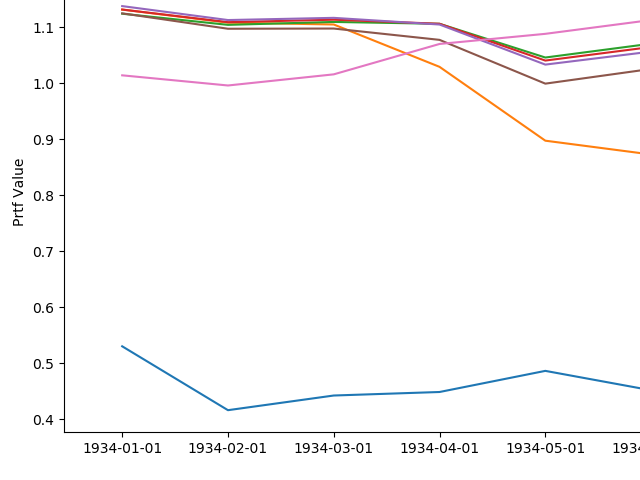
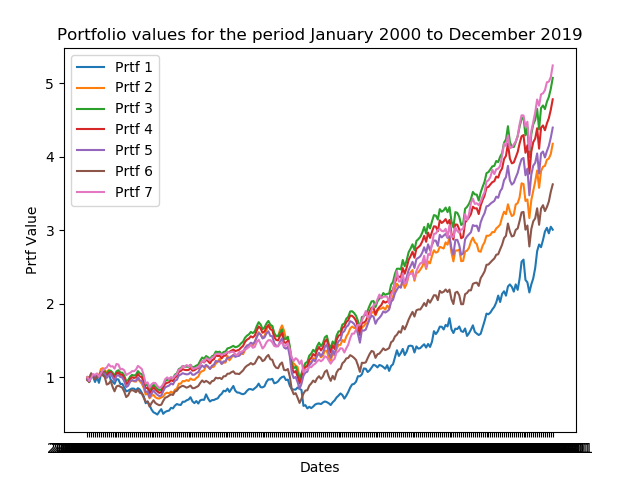
consolidating results in DataFrame for Perf Evaluation

diff --git a/TP2_main.py b/TP2_main.py
@@ -33,9 +33,9 @@ start_date_3        = "2000-01-01"
 end_date            = "2020-01-01"
 
 #To test shorter period
-start_date_2        = "1933-01-01"
-start_date_3        = "1934-01-01"
-end_date            = "1935-01-01"
+#start_date_2        = "1933-01-01"
+#start_date_3        = "1934-01-01"
+#end_date            = "1935-01-01"
 
 
 idx_start_1         = list(date_vec.strftime("%Y-%m-%d")).index(start_date_1)
@@ -299,10 +299,12 @@ NAV_PB_4_2_return_OS3   = np.cumprod(1 + np.array(PB_4_2_return[idx_start_3-idx_
 #   NAV_P1_return,     Keeping this series in cmt as doesn't fit properly
 NAV = np.transpose([NAV_P1_return, NAV_P2_return, NAV_P3_return, NAV_P4_return, NAV_P5_return, NAV_P6_return, NAV_P7_return])
 fig1 = plt.figure()
-axes1 = fig1.add_axes([0.1, 0.1, 2, 1])  # left, bottom, width, height (range 0 to 1)
-x = date_vec_btst
-y = NAV
-axes1.plot(x, y)
+axes1 = fig1.add_axes([0.1, 0.1, 0.8, 0.8])  # left, bottom, width, height (range 0 to 1)
+NAV = pd.DataFrame(NAV, index=date_vec_btst)
+#x = date_vec_btst
+#y = NAV
+#axes1.plot(x, y)
+axes1.plot(NAV)
 axes1.legend(["Prtf 1", "Prtf 2", "Prtf 3", "Prtf 4", "Prtf 5", "Prtf 6", "Prtf 7"])
 axes1.set_xlabel('Dates')
 axes1.set_ylabel('Prtf Value')
@@ -314,7 +316,7 @@ fig1.savefig('7_Portfolios_OS1.png')
 #NAV_P1_return_OS2,
 NAV_OS2 = np.transpose([NAV_P1_return_OS2, NAV_P2_return_OS2, NAV_P3_return_OS2, NAV_P4_return_OS2, NAV_P5_return_OS2, NAV_P6_return_OS2, NAV_P7_return_OS2])
 fig2 = plt.figure()
-axes2 = fig2.add_axes([0.1, 0.1, 2, 1])  # left, bottom, width, height (range 0 to 1)
+axes2 = fig2.add_axes([0.1, 0.1, 0.8, 0.8])  # left, bottom, width, height (range 0 to 1)
 x = date_vec_prd2
 y = NAV_OS2
 axes2.plot(x, y)
@@ -328,7 +330,7 @@ fig2.savefig('7_Portfolios_OS2.png')
 #NAV_P1_return_OS3,
 NAV_OS3 = np.transpose([NAV_P1_return_OS3, NAV_P2_return_OS3, NAV_P3_return_OS3, NAV_P4_return_OS3, NAV_P5_return_OS3, NAV_P6_return_OS3, NAV_P7_return_OS3])
 fig3 = plt.figure()
-axes3 = fig3.add_axes([0.1, 0.1, 2, 1])  # left, bottom, width, height (range 0 to 1)
+axes3 = fig3.add_axes([0.1, 0.1, 0.8, 0.8])  # left, bottom, width, height (range 0 to 1)
 x = date_vec_prd3
 y = NAV_OS3
 axes3.plot(x, y)
@@ -344,7 +346,7 @@ fig3.savefig('7_Portfolios_OS3.png')
 #NAV_PB_3_1_return,     in legend   "Prtf B3: TE<1% without short-sale const",
 NAV_PartB_MC = np.transpose([NAV_P6_return, NAV_PB_3_1_return, NAV_PB_4_1_return])
 figvw1 = plt.figure()
-axesvw1 = figvw1.add_axes([0.1, 0.1, 2, 1])  # left, bottom, width, height (range 0 to 1)
+axesvw1 = figvw1.add_axes([0.1, 0.1, 0.8, 0.8])  # left, bottom, width, height (range 0 to 1)
 x = date_vec_btst
 y = NAV_PartB_MC
 axesvw1.plot(x, y)
@@ -359,7 +361,7 @@ figvw1.savefig('VW_MV_OS1.png')
 # NAV_PB_3_1_return_OS2, "Prtf B3: TE<1% without short-sale const",
 NAV_PartB_MC_OS2 = np.transpose([NAV_P6_return_OS2, NAV_PB_3_1_return_OS2, NAV_PB_4_1_return_OS2])
 figvw2 = plt.figure()
-axesvw2 = figvw2.add_axes([0.1, 0.1, 2, 1])  # left, bottom, width, height (range 0 to 1)
+axesvw2 = figvw2.add_axes([0.1, 0.1, 0.8, 0.8])  # left, bottom, width, height (range 0 to 1)
 x = date_vec_prd2
 y = NAV_PartB_MC_OS2
 axesvw2.plot(x, y)
@@ -375,7 +377,7 @@ figvw2.savefig('VW_MV_OS2.png')
 # NAV_PB_3_1_return_OS3,   "Prtf B3: TE<1% without short-sale const",
 NAV_PartB_MC_OS3 = np.transpose([NAV_P6_return_OS3, NAV_PB_3_1_return_OS3, NAV_PB_4_1_return_OS3])
 figvw3 = plt.figure()
-axesvw3 = figvw3.add_axes([0.1, 0.1, 2, 1])  # left, bottom, width, height (range 0 to 1)
+axesvw3 = figvw3.add_axes([0.1, 0.1, 0.8, 0.8])  # left, bottom, width, height (range 0 to 1)
 x = date_vec_prd3
 y = NAV_PartB_MC_OS3
 axesvw3.plot(x, y)
@@ -391,7 +393,7 @@ figvw3.savefig('VW_MV_OS3.png')
 #NAV_PB_3_2_return,     in legend   "Prtf B3: TE<1% without short-sale const",
 NAV_PartB_EQW = np.transpose([NAV_P5_return, NAV_PB_3_2_return, NAV_PB_4_2_return])
 figeqw1 = plt.figure()
-axeseqw1 = figeqw1.add_axes([0.1, 0.1, 2, 1])  # left, bottom, width, height (range 0 to 1)
+axeseqw1 = figeqw1.add_axes([0.1, 0.1, 0.8, 0.8])  # left, bottom, width, height (range 0 to 1)
 x = date_vec_btst
 y = NAV_PartB_EQW
 axeseqw1.plot(x, y)
@@ -407,7 +409,7 @@ figeqw1.savefig('EQW_OS1.png')
 # NAV_PB_3_2_return_OS2, "Prtf B3: TE<1% without short-sale const",
 NAV_PartB_EQW_OS2 = np.transpose([NAV_P5_return_OS2, NAV_PB_3_2_return_OS2, NAV_PB_4_2_return_OS2])
 figeqw2 = plt.figure()
-axeseqw2 = figeqw2.add_axes([0.1, 0.1, 2, 1])  # left, bottom, width, height (range 0 to 1)
+axeseqw2 = figeqw2.add_axes([0.1, 0.1, 0.8, 0.8])  # left, bottom, width, height (range 0 to 1)
 x = date_vec_prd2
 y = NAV_PartB_EQW_OS2
 axeseqw2.plot(x, y)
@@ -422,7 +424,7 @@ figeqw2.savefig('EQW_OS2.png')
 # NAV_PB_3_2_return_OS3,   "Prtf B3: TE<1% without short-sale const",
 NAV_PartB_EQW_OS3 = np.transpose([NAV_P5_return_OS3, NAV_PB_3_2_return_OS3, NAV_PB_4_2_return_OS3])
 figeqw3 = plt.figure()
-axeseqw3 = figeqw3.add_axes([0.1, 0.1, 2, 1])  # left, bottom, width, height (range 0 to 1)
+axeseqw3 = figeqw3.add_axes([0.1, 0.1, 0.8, 0.8])  # left, bottom, width, height (range 0 to 1)
 x = date_vec_prd3
 y = NAV_PartB_EQW_OS3
 axeseqw3.plot(x, y)
@@ -497,16 +499,55 @@ print(Theta_eqw)
 P8_EQW_weights = tmp1
 P8_EQW_return  = tmp2
 
-# ## Aggregate Portfolio Returns in lists in order to evaluate Performance.
-#
-# # Market Cap weighted portfolios
-# zippedList_mc =  list(zip(P6_return, PB_3_1_return, PB_4_1_return, P8_MC_return))
-# MC_ports = pd.DataFrame(zippedList_mc, columns=['Mkt Cap', 'TE w ss', 'TE w/o ss', 'B8 MC'], index=)
-#
-# # Equally weighted portfolios
-# zippedList_eqw = list(zip(P5_return, PB_3_2_return, PB_4_2_return, P8_EQW_return))
-# EQW_ports = pd.DataFrame(zippedList_mc, columns=['EQW', 'TE w ss', 'TE w/o ss', 'B8 EQW'], index=)
+## Aggregate Portfolio Returns in lists in order to evaluate Performance
+date_vec_B8       = date_vec[1:].strftime("%Y-%m-%d")
 
+# Market Cap weighted portfolios
+#P6_return       = pd.DataFrame(P6_return, index=date_vec_btst, columns=['Mkt Cap'])
+#PB_3_1_return   = pd.DataFrame(PB_3_1_return, columns=['TE w ss'])
+#PB_4_1_return   = pd.DataFrame(PB_4_1_return, columns=['Mkt Cap'])
 
+# P5_return       = pd.DataFrame(P5_return, columns=['EQW'])
+# PB_3_2_return   = pd.DataFrame(PB_3_2_return, columns=['TE w ss'])
+# PB_4_2_return   = pd.DataFrame(PB_4_2_return, columns=['Mkt Cap'])
+
+P8_MC_return    = pd.DataFrame(P8_MC_return, columns=['B8 param wi'], index=date_vec_B8)
+P8_MC_return    = P8_MC_return * 100
+P8_MC_return = P8_MC_return.loc["1963-07-01":]
+zippedList_mc = list(zip(P6_return, PB_3_1_return, PB_4_1_return))
+MC_ports = pd.DataFrame(zippedList_mc, columns=['Mkt Cap', 'TE w/o ssc', 'TE w ssc'], index=date_vec_btst)
+MC_ports = MC_ports.loc["1963-07-01":, :]
+MC_ports = pd.concat([MC_ports, P8_MC_return], axis=1)
+
+NAV_P8_1_return = np.cumprod(1 + np.array(MC_ports) / 100)
+fig = plt.figure()
+axes = fig.add_axes([0.1, 0.1, 0.8, 0.8])  # left, bottom, width, height (range 0 to 1)
+axes.plot(NAV_P8_1_return)
+axes.legend(["Prtf 6: MC", "Tracking without short-sale const", "Tracking with short-sale const", "Part_B 8"])
+axes.set_xlabel('Dates')
+axes.set_ylabel('Prtf Value')
+axes.set_title('Portfolio values for the period July 1963 to December 2019')
+fig.show()
+fig.savefig('B8_1.png')
+
+# Equally weighted portfolios
+P8_EQW_return    = pd.DataFrame(P8_EQW_return, columns=['B8 param wi'], index=date_vec_B8)
+P8_EQW_return    = P8_EQW_return * 100
+P8_EQW_return = P8_EQW_return.loc["1963-07-01":]
+zippedList_eqw = list(zip(P5_return, PB_3_2_return, PB_4_2_return))
+EQW_ports = pd.DataFrame(zippedList_eqw, columns=['EQW', 'TE w/o ssc', 'TE w ssc'], index=date_vec_btst)
+EQW_ports = EQW_ports.loc["1963-07-01":, :]
+EQW_ports = pd.concat([EQW_ports, P8_EQW_return], axis=1)
+
+NAV_P8_2_return = np.cumprod(1 + np.array(EQW_ports) / 100)
+fig = plt.figure()
+axes = fig.add_axes([0.1, 0.1, 0.8, 0.8])  # left, bottom, width, height (range 0 to 1)
+axes.plot(NAV_P8_2_return)
+axes.legend(["Prtf 5: EQW", "Tracking without short-sale const", "Tracking with short-sale const", "Part_B 8"])
+axes.set_xlabel('Dates')
+axes.set_ylabel('Prtf Value')
+axes.set_title('Portfolio values for the period July 1963 to December 2019')
+fig.show()
+fig.savefig('B8_2.png')
 
 print(True)

diff --git a/function/myf.py b/function/myf.py
@@ -36,7 +36,7 @@ def constraint_on_short_sell(weights):
     return weights
 
 def constraint_on_short_sell_lim(weights):
-    return weights + 10
+    return weights + 1
 
 
 def constraint_on_TE(weights, bench_weights, covariance_matrix, TE_threshold):
